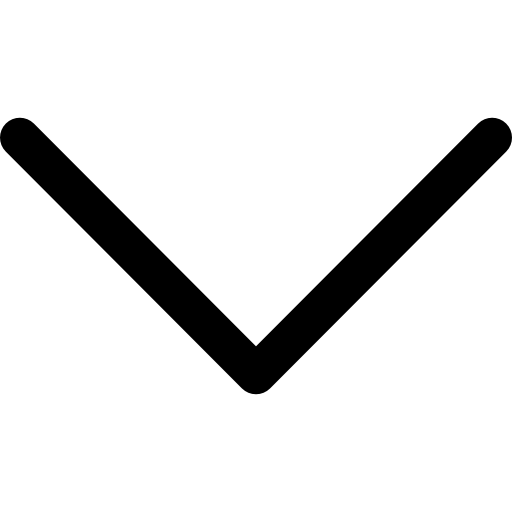
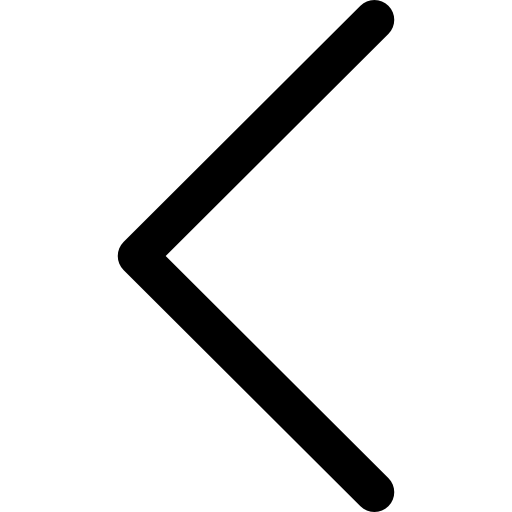
aligned

Changed region(s): [[0.4688, 0.2188, 1.0, 1.0], [0.0, 0.0, 0.7812, 0.5312]]

diff --git a/components/customer-review.html b/components/customer-review.html
@@ -22,10 +22,16 @@
         <div class="card">
             <div class="ui-grid-b">
                 <div class="ui-block-a">
-                    <div class="ui-bar ui-bar" style="height: 30px;"></div>
+                    <div class="ui-bar ui-bar" style="height: 30px;">
+                        <div class="ui-bar ui-bar">
+                            <img src="../assets/leftarrow.png" style="height: 15px;">
+                        </div>
+                    </div>
                 </div>
                 <div class="ui-block-b">
-                    <div class="ui-bar ui-bar" style="height: 30px; text-align: center;">Reviews</div>
+                    <div class="ui-bar ui-bar" style="height: 30px; text-align: center;   display: flex;
+                    justify-content: center;
+                    align-items: center;">Reviews</div>
                 </div>
                 <div class="ui-block-c">
                     <div class="ui-bar ui-bar" style="height: 30px;"></div>
@@ -36,7 +42,76 @@
         <div role="main" class="ui-content">
             <div class="card">
                 <div id="customer-feedback">
+                    <div class="ui-grid-a">
+                        <div style="float: right;">
+                            <!-- <a id='btnShowSignUp' data-role="button" href='#' onclick="ShowSignUp();">Show</a> -->
+                            <!-- <a href="#" class="ui-btn ui-icon-delete ui-btn-icon-notext ui-corner-all">No text</a> -->
+                            <img src="../assets/downArrow.png" style="height: 10px;">
+                            <!-- <div id="custom-border-radius">
+                                    <a href="#" class="ui-btn ui-icon-delete ui-btn-icon-notext ui-corner-all">No
+                                    text</a>
+                            </div> -->
+                        </div>
+                    </div>
                     <div class="ui-grid-b">
+                        <div class="ui-block-a">
+                            <div class="ui-bar ui-bar">
+                                <div class="outer-circle">
+                                    <div class="circular_image">
+                                        <img src="../assets/harrish.jpg">
+                                    </div>
+                                </div>
+                            </div>
+                        </div>
+                        <h5>
+                            S. Harrish
+                        </h5>
+                        <div class="ui-grid-a">
+                            <div class="ui-block-a">
+                               <div>
+                                   <div class="ui-grid-d">
+                                       <div class="ui-block-a">
+                                        <img src="../assets/star.png" style="height: 10px;">
+                                       </div>
+                                       <div class="ui-block-b">
+                                        <img src="../assets/star.png" style="height: 10px;">
+                                       </div>
+                                       <div class="ui-block-c">
+                                        <img src="../assets/star.png" style="height: 10px;">
+                                       </div>
+                                       <div class="ui-block-d">
+                                        <img src="../assets/star.png" style="height: 10px;">
+                                       </div>
+                                       <div class="ui-block-e">
+                                        <img src="../assets/star.png" style="height: 10px;">
+                                       </div>
+                                   </div>
+                               </div>
+                            </div>
+                            <div class="ui-block-b">
+                               <div class="date">
+                                    21.12.2020
+                               </div>
+                            </div>
+                        </div>
+                        <div>
+                            <p class="infoText">Lorem ipsum dolor sit amet, consectetur adipiscing elit, sed do
+                                eiusmod tempor incididunt ut labore et dolore magna aliqua.
+                                Lorem ipsum dolor sit amet.</p>
+                        </div>
+                    </div>
+
+                </div>
+                <!-- <div id="vendor-feedback">
+                    <div class="feedback">
+                        <h6>asd</h6>
+                    </div>
+                </div> -->
+            </div>
+
+            <div class="card">
+                <div id="customer-feedback">
+                    <div>
                         <div style="float: right;">
                             <!-- <a id='btnShowSignUp' data-role="button" href='#' onclick="ShowSignUp();">Show</a> -->
                             <!-- <a href="#" class="ui-btn ui-icon-delete ui-btn-icon-notext ui-corner-all">No text</a> -->
@@ -106,77 +181,7 @@
 
             <div class="card">
                 <div id="customer-feedback">
-                    <div class="ui-grid-b">
-                        <div style="float: right;">
-                            <!-- <a id='btnShowSignUp' data-role="button" href='#' onclick="ShowSignUp();">Show</a> -->
-                            <!-- <a href="#" class="ui-btn ui-icon-delete ui-btn-icon-notext ui-corner-all">No text</a> -->
-                            <img src="../assets/downArrow.png" style="height: 10px;">
-                            <!-- <div id="custom-border-radius">
-                                    <a href="#" class="ui-btn ui-icon-delete ui-btn-icon-notext ui-corner-all">No
-                                    text</a>
-                            </div> -->
-                        </div>
-                    </div>
-                    <div class="ui-grid-b">
-                        <div class="ui-block-a">
-                            <div class="ui-bar ui-bar">
-                                <div class="outer-circle">
-                                    <div class="circular_image">
-                                        <img src="../assets/harrish.jpg">
-                                    </div>
-                                </div>
-
-                            </div>
-                        </div>
-                        <h5>
-                            S. Harrish
-                        </h5>
-                        <div class="ui-grid-a">
-                            <div class="ui-block-a">
-                               <div>
-                                   <div class="ui-grid-d">
-                                       <div class="ui-block-a">
-                                        <img src="../assets/star.png" style="height: 10px;">
-                                       </div>
-                                       <div class="ui-block-b">
-                                        <img src="../assets/star.png" style="height: 10px;">
-                                       </div>
-                                       <div class="ui-block-c">
-                                        <img src="../assets/star.png" style="height: 10px;">
-                                       </div>
-                                       <div class="ui-block-d">
-                                        <img src="../assets/star.png" style="height: 10px;">
-                                       </div>
-                                       <div class="ui-block-e">
-                                        <img src="../assets/star.png" style="height: 10px;">
-                                       </div>
-                                   </div>
-                               </div>
-                            </div>
-                            <div class="ui-block-b">
-                               <div class="date">
-                                    21.12.2020
-                               </div>
-                            </div>
-                        </div>
-                        <div>
-                            <p class="infoText">Lorem ipsum dolor sit amet, consectetur adipiscing elit, sed do
-                                eiusmod tempor incididunt ut labore et dolore magna aliqua.
-                                Lorem ipsum dolor sit amet.</p>
-                        </div>
-                    </div>
-
-                </div>
-                <!-- <div id="vendor-feedback">
-                    <div class="feedback">
-                        <h6>asd</h6>
-                    </div>
-                </div> -->
-            </div>
-
-            <div class="card">
-                <div id="customer-feedback">
-                    <div class="ui-grid-b">
+                    <div>
                         <div style="float: right;">
                             <!-- <a id='btnShowSignUp' data-role="button" href='#' onclick="ShowSignUp();">Show</a> -->
                             <!-- <a href="#" class="ui-btn ui-icon-delete ui-btn-icon-notext ui-corner-all">No text</a> -->

diff --git a/css/customer-review.css b/css/customer-review.css
@@ -1,5 +1,6 @@
 .card-title {
     text-align: center;
+  
 }
 
 .circular_image {
@@ -31,4 +32,7 @@
     display: inline-block;
     vertical-align: middle;
     border: 1px solid red;
+    display: flex;
+    justify-content: center;
+    align-items: center;
   }
